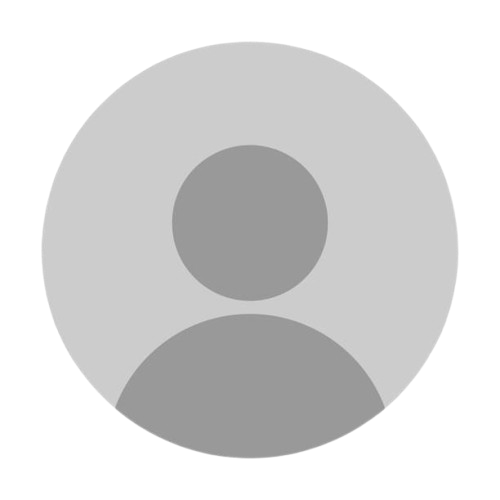
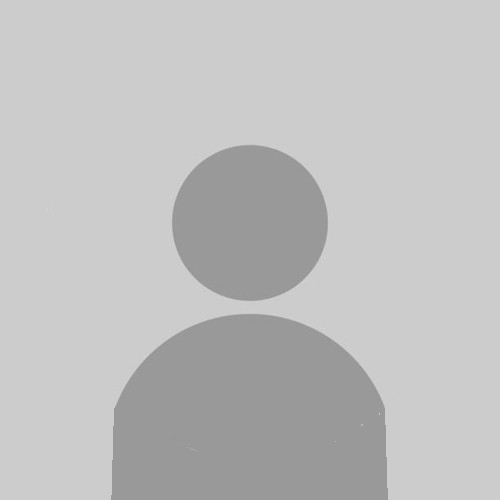
foto solo editable en modo edicion

diff --git a/vite-project/src/components/styles/Profile.css b/vite-project/src/components/styles/Profile.css
@@ -44,7 +44,7 @@ section h1{
     transition: .3s;    
 }
 
-.pfp:hover img{
+.pfp-edit:hover img{
     filter:brightness(55%);
     border-radius: 10%;
     transition: .3s;
@@ -57,9 +57,9 @@ section h1{
     height: 100%;
 }
 
-.pfp:hover::after{
+.pfp-edit:hover::after{
     position: absolute;
-    display: inline;
+    display: inline;    
     content: "";
     background-image: url(https://i.postimg.cc/bNQFK2v4/x.png);
     background-size: 30% 30%;

diff --git a/vite-project/src/components/Profile.jsx b/vite-project/src/components/Profile.jsx
@@ -117,7 +117,7 @@ function Profile(props){
             <h1>PERFIL</h1>
             <div className="profile-container">
                 <div className="photo">
-                    <div className="pfp">
+                    <div className={`pfp ${showEdit ? 'pfp-edit' : ''}`}>
                         <img src={img} alt="Perfil" onClick={() => {setShowPfp(true); console.log(showPfp)}}/>
                     </div>
                     
